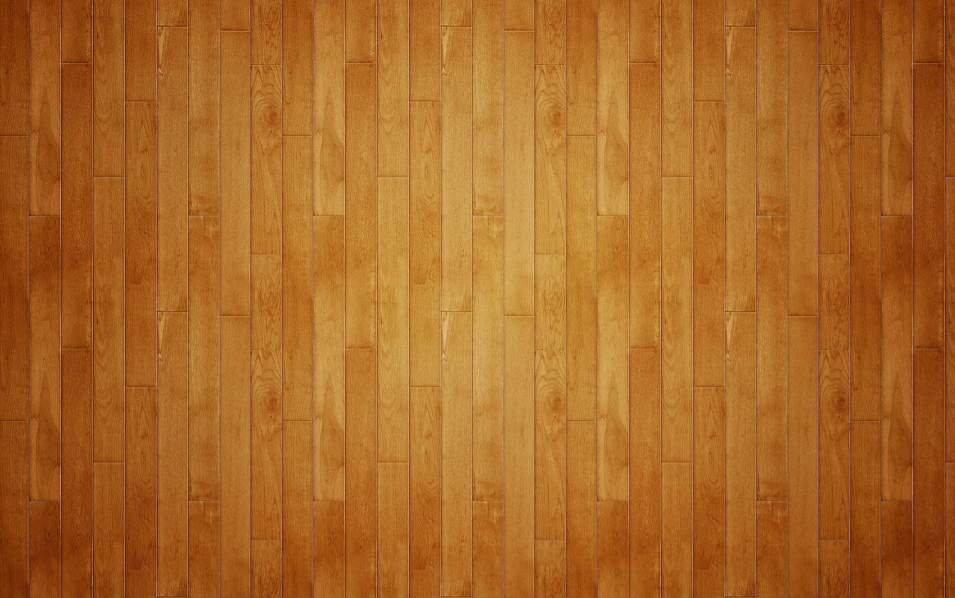
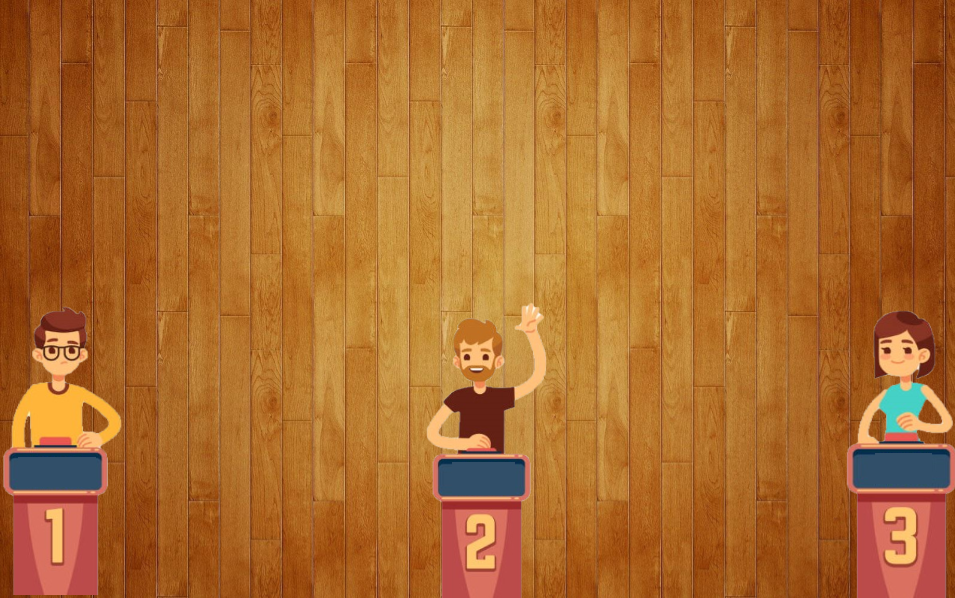
hi

Changed region(s): [[0.8806, 0.5117, 1.0, 1.0], [0.4251, 0.5117, 0.577, 1.0], [0.0, 0.5117, 0.1518, 1.0]]

diff --git a/src/MainFileTester.java b/src/MainFileTester.java
@@ -1,21 +1,17 @@
 import javafx.application.Application;
 import javafx.scene.Scene;
-import javafx.scene.control.TextField;
 import javafx.scene.image.Image;
 import javafx.scene.image.ImageView;
-import javafx.scene.layout.Background;
-import javafx.scene.layout.BackgroundImage;
-import javafx.scene.layout.BackgroundPosition;
-import javafx.scene.layout.BackgroundRepeat;
-import javafx.scene.layout.BackgroundSize;
 import javafx.scene.layout.BorderPane;
+import javafx.scene.layout.GridPane;
 import javafx.scene.layout.HBox;
+import javafx.scene.layout.Pane;
 import javafx.scene.media.Media;
 import javafx.scene.media.MediaPlayer;
+import javafx.scene.paint.Color;
+import javafx.scene.shape.Rectangle;
 import javafx.scene.text.Text;
 import javafx.stage.Stage;
-import javafx.scene.shape.Rectangle;
-import javafx.scene.paint.Color;
 
 import java.io.File;
 import java.io.FileNotFoundException;
@@ -25,37 +21,34 @@ import java.util.HashMap;
 import java.util.Scanner;
 
 
-public class MainFile extends Application {
+public class MainFileTester extends Application {
 
     private String musicFile = "Waiting.mp3";
     private Media sound = new Media(new File(musicFile).toURI().toString());
     private MediaPlayer mediaPlayer = new MediaPlayer(sound);
 
     public void start(Stage ps) throws FileNotFoundException {
-        BorderPane mainPane = new BorderPane();
-        HBox bottomPane = new HBox();
+        Pane mainPane = new Pane();
         Text questionBox = new Text();
-        mainPane.setBottom(bottomPane);
-        mainPane.setCenter(questionBox);
+        mainPane.getChildren().add(questionBox);
 
-        BackgroundImage myBI= new BackgroundImage(new Image("background.png"),
-                BackgroundRepeat.REPEAT, BackgroundRepeat.REPEAT, BackgroundPosition.DEFAULT,
-                BackgroundSize.DEFAULT);
-        mainPane.setBackground(new Background(myBI));
+        /*Image background = new Image("background.png");
+        ImageView imageView = new ImageView(background);
+        imageView.fitWidthProperty().bind(mainPane.widthProperty());
+        imageView.fitHeightProperty().bind(mainPane.heightProperty());
+        mainPane.getChildren().add(imageView);*/
 
-
-        /*Image contestant1 = new Image("contestant1.jpg");
+        Image contestant1 = new Image("contestant1.jpg");
         ImageView contestant1imageView = new ImageView(contestant1);
         contestant1imageView.setFitWidth(contestant1.getWidth()/2);
         contestant1imageView.setFitHeight(contestant1.getHeight()/2);
-        bottomPane.getChildren().add(contestant1imageView);
-//        bottomPane.toFront();
+        mainPane.getChildren().add(contestant1imageView);
 
         Image contestant2 = new Image("contestant2.jpg");
         ImageView contestant2imageView = new ImageView(contestant2);
         contestant2imageView.setFitWidth(contestant2.getWidth()/2);
         contestant2imageView.setFitHeight(contestant2.getHeight()/2);
-        bottomPane.getChildren().add(contestant2imageView);*/
+        mainPane.getChildren().add(contestant2imageView);
 
         Rectangle qBox = new Rectangle(150, 75, 900, 100);
         qBox.setFill(Color.WHITE);
@@ -79,7 +72,7 @@ public class MainFile extends Application {
         mediaPlayer.setVolume(100);
         mediaPlayer.play();
 
-        Scene scene = new Scene(mainPane, 955,598);
+        Scene scene = new Scene(mainPane, 1200,600);
         ps.setTitle("Quiz Bowl");
         ps.setScene(scene);
         ps.show();
